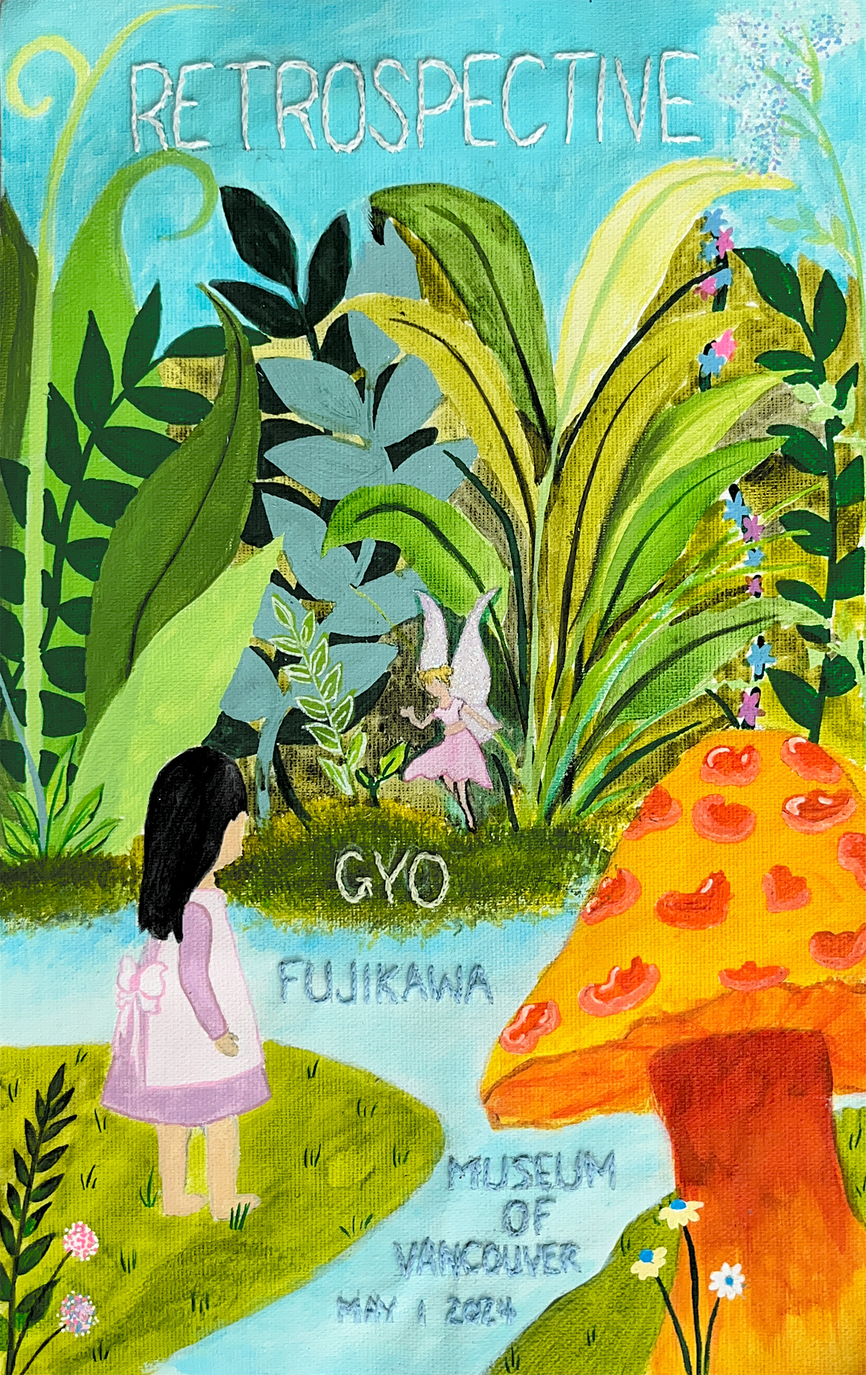
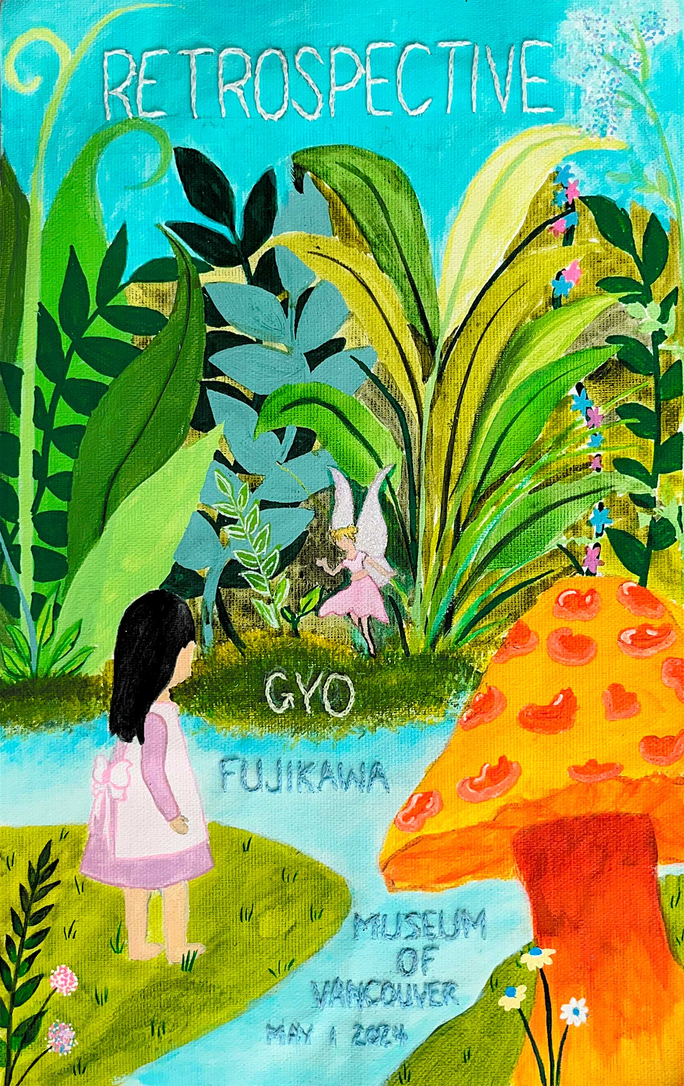
Updated

diff --git a/project-ink-blot.html b/project-ink-blot.html
@@ -110,7 +110,7 @@
 
         <figure class="project-image">
           <img
-            src="assets/music-festival/bellui-bts-three-posters.jpg"
+            src="assets/placeholder/bellui-placeholder.jpg"
             width="1900"
             height="1069"
             loading="lazy"
@@ -119,7 +119,7 @@
         </figure>
         <figure class="project-image">
           <img
-            src="assets/music-festival/bellui-bts-three-poster-mockup.jpg"
+            src="assets/placeholder/bellui-placeholder.jpg"
             width="1900"
             height="1069"
             loading="lazy"

diff --git a/play.html b/play.html
@@ -160,8 +160,8 @@
               <figure class="project-image">
                 <img
                   src="assets/play-page/bellui-retrospective-poster.jpg"
-                  width="1900"
-                  height="3017"
+                  width="1500"
+                  height="2382"
                   loading="lazy"
                   alt="Where Wonder Grows"
                   title="Where Wonder Grows"

diff --git a/index.html b/index.html
@@ -168,7 +168,7 @@
           <li class="work-page-grid-item">
             <figure>
               <img
-                src="assets/placeholder.jpg"
+                src="assets/placeholder/bellui-placeholder.jpg"
                 width="1900"
                 height="1468"
                 class="rounded-large"

diff --git a/project-below-the-surface.html b/project-below-the-surface.html
@@ -99,7 +99,6 @@
               their emotional struggles and to understand that even in their
               darkest times, they are never alone.
             </p>
-            <p>Case Study</p>
           </div>
         </div>
 
